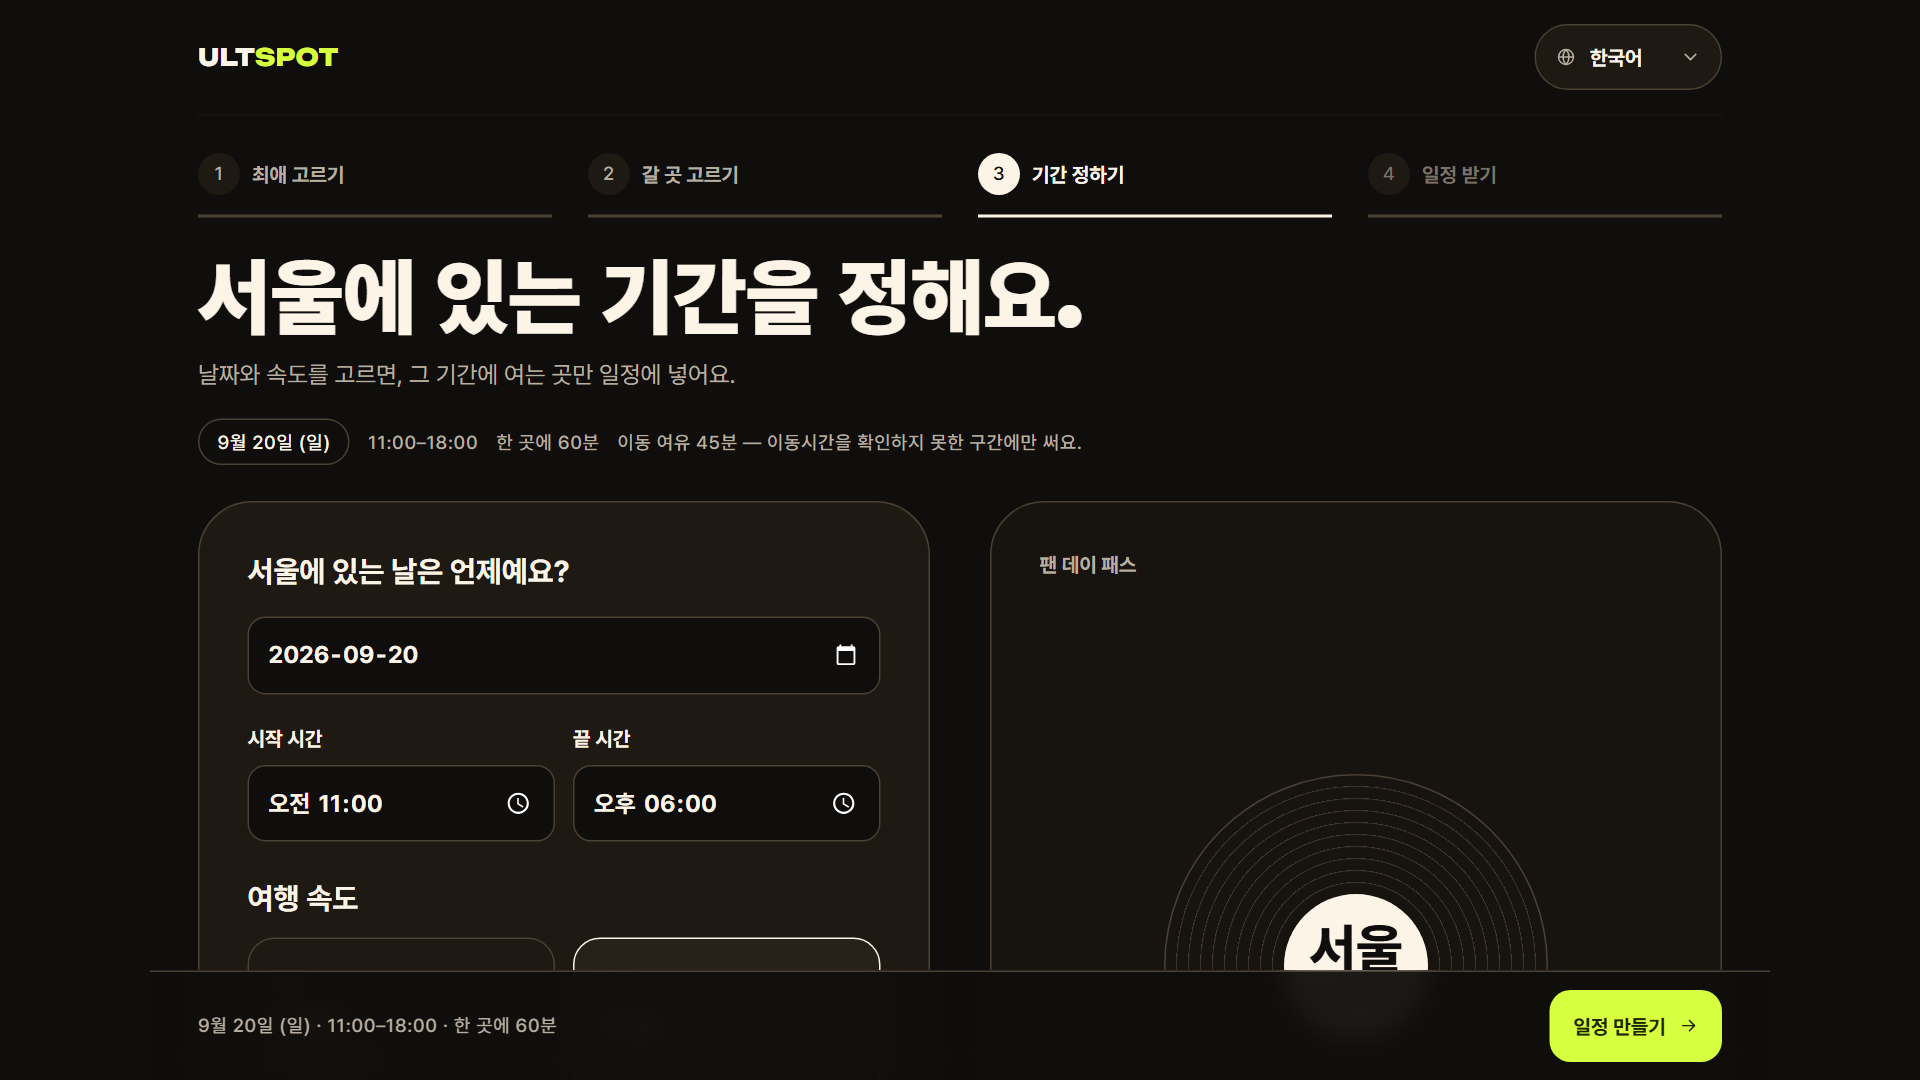
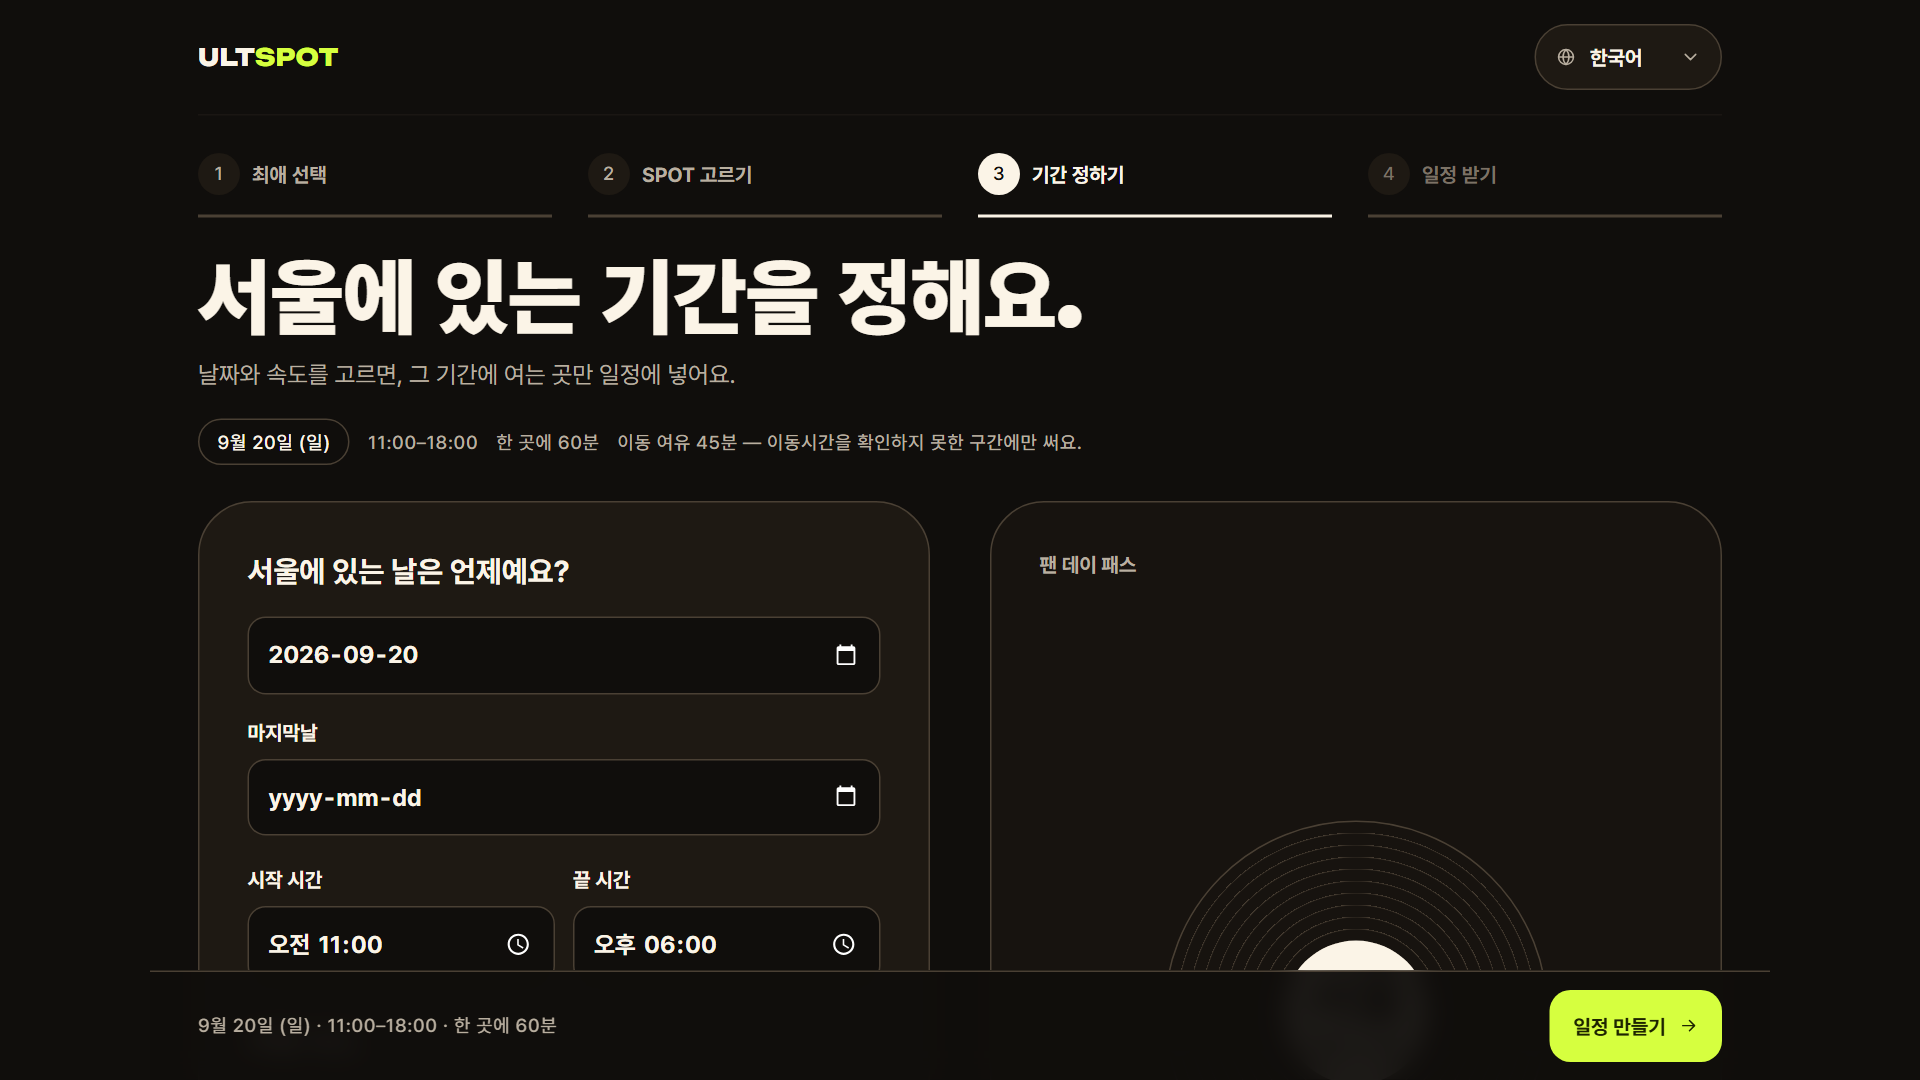
feat(trip): Kiro의 N박 N일 여정과 현장 기록 DB를 main에 합치고 홈을 4단계로 맞춘다 (T-035)
Kiro가 feat/T-029-full-ux에 올린 커밋 둘(59fd19c 여정 화면, 30020cf 현장
기록 DB)이 main에 없었다. #41로 합친 뒤에 올라온 것들이다. 그 브랜치는
제 최근 작업(T-032~T-034)이 없는 낡은 기준이라, main 쪽에서 가져온다.

충돌 없이 합쳐졌다. Kiro가 파일 소유권을 지킨 덕이다.

합치고 나서 i18n 가드가 잡은 것: 여정 검증 오류 문구(`lib.*` 10건)가
한국어에만 있었다. 일본어·중국어 사용자는 "Invalid journey dates." 같은
영어 원문을 그대로 봤을 것이다. 두 언어를 채웠다. 이 가드를 T-026에서
넣은 이유가 정확히 이것이다 — 키가 빠진 언어는 조용히 영어로 떨어진다.

홈 안내를 4단계로 바꿨다(critique 4회차 P2). 사용자가 준 문구 그대로다:
최애를 선택해요 / 가고 싶은 SPOT을 골라요 / 여행 기간을 정해요 / 나만의
여행 일정을 받아요. 영어는 Pick your ULT / Choose your SPOTs / Set your
travel dates / Get your ULTSPOT itinerary. 설명은 한 줄로 줄였다 — 4개 ×
3줄이면 390px에서 화면 하나를 통째로 먹는다. 단계 레일 라벨과 2단계 제목도
같은 어휘(ULT·SPOT)로 맞췄고, e2e/flow.ts의 stepLabels를 함께 고쳤다.

"이렇게 만들어요"를 지도 배너 위로 올렸다(사용자 제안). 설명이 장식보다
먼저다 — 제품이 무엇인지 읽고 나서 분위기를 본다. 지도는 페이지를 닫는
그림이 됐다. 4단계라 데스크톱 4열·태블릿 2열·모바일 1열.

#43(같은 T-034 번호로 올라온 언어 선택 화살표 수정)은 #44와 같은 내용이라
닫았다. 하나 다른 `shrink-0`은 여기 가져왔다.

검증: E2E 234건 통과·3건 skip(클라우드 키 없음), 데이터 58건, typecheck 0,
lint 오류 0. 여정 화면(2박 3일)을 3개 뷰포트로 직접 찍어 확인했다. 홈 캡처를
열어 4단계 설명이 한 줄씩인 것과 지도가 맨 아래로 간 것을 확인했다. 대표
이미지 7장을 다시 찍었다.

diff --git a/src/i18n/messages.ja.ts b/src/i18n/messages.ja.ts
@@ -15,15 +15,16 @@ export const ja: Messages = {
     lead: "K-POPスポットとファンイベントを、自分だけのソウル旅に。",
     howTitle: "使い方",
     how: [
-      { title: "日程を決める", body: "日付、開始・終了時刻、そして誰に会いに行くか。" },
-      { title: "行き先を選ぶ", body: "出典を確認した場所と、主催者の告知を見て自分で追加したイベント。" },
-      { title: "プランを受け取る", body: "時刻付きのプランと、入らなかった場所の理由。カレンダーに追加できます。" },
+      { title: "推しを選ぶ", body: "グループやメンバー名で探せます。" },
+      { title: "行きたいSPOTを選ぶ", body: "出典を確認した場所だけを表示します。" },
+      { title: "旅行の日程を決める", body: "日付、時間、1日のペースを決めます。" },
+      { title: "自分だけの旅程を受け取る", body: "時刻付きのプランをカレンダーへ。" },
     ],
     cta: "プランを作る",
   },
   // 動詞つきのラベルは390pxの分割に収まらず、最後の1文字だけが次の行に落ちる(T-026)。
   // 4ステップではさらに狭いので、英語(Your day)や中国語(4文字)と同じく名詞で置く。
-  steps: { nav: "プラン作成のステップ", labels: ["推し", "行き先", "日程", "プラン"], home: "ULTSPOT ホーム" },
+  steps: { nav: "プラン作成のステップ", labels: ["推し", "SPOT", "日程", "旅程"], home: "ULTSPOT ホーム" },
   titles: ["誰を追いかけますか？", "どこへ行くか選びましょう。", "ソウルで過ごす日程を決めましょう。", "あなたのソウル・セットリスト。"],
   subtitles: [
     "推しを選ぶと関連スポットを表示します。全体を見て回ってもかまいません。",
@@ -381,6 +382,17 @@ export const ja: Messages = {
     "Preference ranking returned an unreadable answer, so the reviewed order is used.": "好みの評価の応答を読み取れなかったため、既定の順序で表示します。",
     "The documented facts are not enough to rank by preference, so the reviewed order is used.": "確認済みの情報が不足しているため、既定の順序で表示します。",
     "Too many candidates to rank, so the reviewed order is used.": "候補が多すぎるため、既定の順序で表示します。",
+    // T-029 여정 검증 오류. 한국어에만 있어 일본어 화면에 영어 원문이 그대로 나갔다(i18n 가드가 잡음).
+    "Invalid journey.": "旅程の情報を読み取れませんでした。",
+    "Unknown visit or day.": "該当する訪問または日付が見つかりません。",
+    "Invalid visit position.": "移動先の位置が正しくありません。",
+    "Invalid journey dates.": "旅程の日付が正しくありません。",
+    "Unknown day.": "該当する日付が見つかりません。",
+    "Invalid or duplicate visit.": "すでに追加済みか、値が正しくありません。",
+    "Invalid or duplicate personal place.": "すでに追加した場所か、値が正しくありません。",
+    "Unknown visit.": "該当する訪問が見つかりません。",
+    "Invalid visit time.": "訪問時刻が正しくありません。",
+    "Journey is invalid or too large.": "旅程の情報が正しくないか、大きすぎます。",
   },
   file: {
     header: (date: string) => `ULTSPOT · ${date} · 韓国時間`,

diff --git a/src/i18n/messages.ts b/src/i18n/messages.ts
@@ -22,14 +22,15 @@ const en = {
     lead: "Build your Seoul trip around K-pop spots and fan events.",
     howTitle: "How it works",
     how: [
-      { title: "Set your day", body: "Date, start and end time, and who you’re going for." },
-      { title: "Pick your spots", body: "Places with a checked source, plus events you add from an organizer’s notice." },
-      { title: "Get your setlist", body: "A timed plan with reasons for anything that didn’t fit. Add it to your calendar." },
+      { title: "Pick your ULT", body: "Search a group or a member." },
+      { title: "Choose your SPOTs", body: "Only places with a checked source." },
+      { title: "Set your travel dates", body: "Dates, hours and your pace." },
+      { title: "Get your ULTSPOT itinerary", body: "A timed plan, straight to your calendar." },
     ],
     cta: "Plan my trip",
   },
-  steps: { nav: "Trip steps", labels: ["Your artist", "Your spots", "Your days", "Your setlist"], home: "ULTSPOT home" },
-  titles: ["Who are you following?", "Pick where you’ll go.", "Set your Seoul days.", "Your Seoul setlist."],
+  steps: { nav: "Trip steps", labels: ["Your ULT", "Your SPOTs", "Your dates", "Your itinerary"], home: "ULTSPOT home" },
+  titles: ["Who are you following?", "Choose your SPOTs.", "Set your Seoul days.", "Your Seoul setlist."],
   subtitles: [
     "Pick an artist and we’ll mark related spots. You can also browse everything.",
     "Browse without a date. We check what’s open once you set your days.",
@@ -356,14 +357,15 @@ const ko: Messages = {
     lead: "최애의 스팟과 팬 행사를 내 서울 여행에 담아보세요.",
     howTitle: "이렇게 만들어요",
     how: [
-      { title: "하루 정하기", body: "날짜, 시작·끝 시간, 그리고 누구를 보러 가는지." },
-      { title: "갈 곳 고르기", body: "출처를 확인한 장소, 그리고 주최자 공지를 보고 직접 추가한 행사." },
-      { title: "내 셋리스트 받기", body: "시간이 붙은 일정과 빠진 곳의 이유. 캘린더에 바로 추가할 수 있어요." },
+      { title: "최애를 선택해요", body: "그룹이나 멤버 이름으로 찾아요." },
+      { title: "가고 싶은 SPOT을 골라요", body: "출처를 확인한 장소만 보여 드려요." },
+      { title: "여행 기간을 정해요", body: "날짜, 시간, 하루 속도를 정해요." },
+      { title: "나만의 여행 일정을 받아요", body: "시간이 붙은 일정을 캘린더에 담아요." },
     ],
     cta: "일정 만들기",
   },
-  steps: { nav: "일정 만들기 단계", labels: ["최애 고르기", "갈 곳 고르기", "기간 정하기", "일정 받기"], home: "ULTSPOT 홈" },
-  titles: ["누구 따라 떠나요?", "어디에 갈지 골라요.", "서울에 있는 기간을 정해요.", "나의 서울 셋리스트."],
+  steps: { nav: "일정 만들기 단계", labels: ["최애 선택", "SPOT 고르기", "기간 정하기", "일정 받기"], home: "ULTSPOT 홈" },
+  titles: ["누구 따라 떠나요?", "가고 싶은 SPOT을 골라요.", "서울에 있는 기간을 정해요.", "나의 서울 셋리스트."],
   subtitles: [
     "최애를 고르면 관련 장소를 표시해 드려요. 전체를 둘러봐도 괜찮아요.",
     "날짜를 정하지 않고 둘러볼 수 있어요. 기간을 정하면 그때 여는 곳을 다시 확인해요.",

diff --git a/src/i18n/messages.zh.ts b/src/i18n/messages.zh.ts
@@ -15,13 +15,14 @@ export const zh: Messages = {
     lead: "把 K-pop 地点和粉丝活动加入你的首尔行程。",
     howTitle: "使用方式",
     how: [
-      { title: "定下日期", body: "日期、开始和结束时间，以及你要去见谁。" },
-      { title: "选择地点", body: "已核对来源的地点，以及你根据主办方公告自己添加的活动。" },
-      { title: "拿到行程", body: "带时间的行程，以及没能排进去的原因。可以加入日历。" },
+      { title: "选择本命", body: "按团体或成员名字搜索。" },
+      { title: "挑选想去的 SPOT", body: "只显示核实过来源的地点。" },
+      { title: "定下旅行日期", body: "定下日期、时间和一天的节奏。" },
+      { title: "获取专属行程", body: "带时间的行程，直接加入日历。" },
     ],
     cta: "制定行程",
   },
-  steps: { nav: "行程制定步骤", labels: ["选择本命", "选择地点", "定下日期", "查看行程"], home: "ULTSPOT 首页" },
+  steps: { nav: "行程制定步骤", labels: ["选择本命", "选择 SPOT", "定下日期", "获取行程"], home: "ULTSPOT 首页" },
   titles: ["你要追谁？", "选择要去的地方", "定下在首尔的日期", "你的首尔歌单行程"],
   subtitles: [
     "选择本命后我们会标出相关地点。也可以直接浏览全部。",
@@ -379,6 +380,17 @@ export const zh: Messages = {
     "Preference ranking returned an unreadable answer, so the reviewed order is used.": "偏好评估返回的结果无法解析，按默认顺序显示。",
     "The documented facts are not enough to rank by preference, so the reviewed order is used.": "已确认的信息不足以按偏好排序，按默认顺序显示。",
     "Too many candidates to rank, so the reviewed order is used.": "候选过多，按默认顺序显示。",
+    // T-029 行程校验错误。原本只有韩语，中文界面会直接显示英文原文（i18n 检查发现）。
+    "Invalid journey.": "无法读取行程信息。",
+    "Unknown visit or day.": "找不到对应的访问或日期。",
+    "Invalid visit position.": "移动的位置无效。",
+    "Invalid journey dates.": "行程日期无效。",
+    "Unknown day.": "找不到对应的日期。",
+    "Invalid or duplicate visit.": "已经添加过，或者值无效。",
+    "Invalid or duplicate personal place.": "已经添加过该地点，或者值无效。",
+    "Unknown visit.": "找不到对应的访问。",
+    "Invalid visit time.": "访问时间无效。",
+    "Journey is invalid or too large.": "行程信息无效或过大。",
   },
   file: {
     header: (date: string) => `ULTSPOT · ${date} · 韩国时间`,

diff --git a/src/components/home-intro.tsx b/src/components/home-intro.tsx
@@ -49,22 +49,26 @@ export function HomeIntro() {
         </div>
       </div>
 
-      {/* 기준 목업의 첫인상 — "서울 곳곳에 스팟이 흩어져 있다". 지역 이름과 개수는
-          목업이 스스로 예시라고 적은 값이라 넣지 않는다. 자세한 것은 MapBanner 주석 참고. */}
-      <MapBanner label={BRAND_CITY} className="mt-12" />
-
+      {/* 설명이 장식보다 먼저다. 제품이 무엇인지 읽고 나서 분위기를 본다.
+          4단계라 데스크톱은 4열, 모바일은 한 열. 설명 줄은 한 줄로 유지한다 — 4개 × 3줄이면
+          390px에서 화면 하나를 통째로 먹는다. */}
       <h2 className="mt-14 text-label text-text-muted">{t.home.howTitle}</h2>
-      <ol className="mt-4 grid gap-x-8 gap-y-5 md:grid-cols-3">
+      <ol className="mt-4 grid gap-x-6 gap-y-5 sm:grid-cols-2 lg:grid-cols-4">
         {t.home.how.map((step, index) => (
           <li key={step.title} className="flex gap-4 border-t border-line-strong pt-4">
             <span aria-hidden="true" className="font-display text-subhead text-text-faint">{index + 1}</span>
             <div>
               <p className="text-subhead">{step.title}</p>
-              <p className="mt-1 max-w-[40ch] text-body-sm text-text-muted">{step.body}</p>
+              <p className="mt-1 text-body-sm text-text-muted">{step.body}</p>
             </div>
           </li>
         ))}
       </ol>
+
+      {/* 기준 목업의 첫인상 — "서울 곳곳에 스팟이 흩어져 있다". 지역 이름과 개수는
+          목업이 스스로 예시라고 적은 값이라 넣지 않는다. 자세한 것은 MapBanner 주석 참고.
+          페이지를 닫는 그림으로 맨 아래에 둔다. */}
+      <MapBanner label={BRAND_CITY} className="mt-14" />
     </section>
   </>;
 }

diff --git a/e2e/planner.spec.ts b/e2e/planner.spec.ts
@@ -10,7 +10,7 @@ englishLocale();
 test("onboarding keeps choices when moving back and guides focus", async ({ page }) => {
   await page.goto("/plan");
   // 첫 단계는 최애 고르기다. 갈 곳 단계는 아직 열리지 않았다 (T-029).
-  await expect(page.getByRole("region", { name: "Your spots" })).toHaveCount(0);
+  await expect(page.getByRole("region", { name: "Your SPOTs" })).toHaveCount(0);
   await browseAllSpots(page);
   await expect(page.getByRole("heading", { level: 1 })).toBeFocused();
   await page.getByRole("button", { name: "Add HiKR Ground · K-pop floors", exact: true }).click();

diff --git a/e2e/flow.ts b/e2e/flow.ts
@@ -10,8 +10,8 @@ import type { Page } from "@playwright/test";
 export const stepNavLabel = { ko: "일정 만들기 단계", en: "Trip steps" } as const;
 
 export const stepLabels = {
-  ko: ["최애 고르기", "갈 곳 고르기", "기간 정하기", "일정 받기"],
-  en: ["Your artist", "Your spots", "Your days", "Your setlist"],
+  ko: ["최애 선택", "SPOT 고르기", "기간 정하기", "일정 받기"],
+  en: ["Your ULT", "Your SPOTs", "Your dates", "Your itinerary"],
 } as const;
 
 export type FlowLocale = keyof typeof stepLabels;
